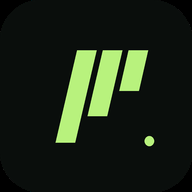
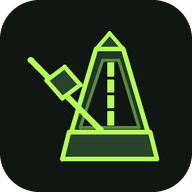
u

diff --git a/src/App.tsx b/src/App.tsx
@@ -2,6 +2,7 @@ import { useCallback, useEffect, useRef, useState } from 'react'
 import { Activity, BarChart3, Clock3, Download, History, Menu, Settings2, Timer, Upload, Volume2, VolumeX, X } from 'lucide-react'
 import { ActivityView } from './components/ActivityView'
 import { HistoryView } from './components/HistoryView'
+import { MetronomeMark } from './components/MetronomeMark'
 import { StatisticsView } from './components/StatisticsView'
 import { TimerView } from './components/TimerView'
 import { cleanActivity, defaultSettings, normalizeActivity, type LiveSession, type Mode, type Session, type Settings } from './lib/model'
@@ -11,11 +12,11 @@ import { playSound } from './lib/sound'
 import './styles.css'
 
 type Screen = 'timer' | 'activity' | 'statistics' | 'history'
-const nav: { id: Screen; label: string; icon: typeof Timer; index: string }[] = [
-  { id: 'timer', label: 'Timer', icon: Timer, index: '01' },
-  { id: 'activity', label: 'Activity', icon: Activity, index: '02' },
-  { id: 'statistics', label: 'Statistics', icon: BarChart3, index: '03' },
-  { id: 'history', label: 'History', icon: History, index: '04' },
+const nav: { id: Screen; label: string; icon: typeof Timer }[] = [
+  { id: 'timer', label: 'Timer', icon: Timer },
+  { id: 'activity', label: 'Activity', icon: Activity },
+  { id: 'statistics', label: 'Statistics', icon: BarChart3 },
+  { id: 'history', label: 'History', icon: History },
 ]
 
 export default function App() {
@@ -125,11 +126,6 @@ export default function App() {
       playSound('finish', settings)
     } catch { report('This session could not be saved. Please try again.') }
   }
-  const handleRate = (rating: number) => {
-    if (!completed) return
-    const record = { ...completed, rating }
-    void saveSession(record).then(() => { setCompleted(record); setSessions(previous => previous.map(item => item.id === record.id ? record : item)) }).catch(() => report('Rating could not be saved.'))
-  }
   const rename = async (oldName: string, newName: string) => {
     const clean = cleanActivity(newName)
     if (!clean) return
@@ -167,14 +163,13 @@ export default function App() {
 
   return <div className="app-shell">
     <aside className={`sidebar ${menuOpen ? 'mobile-open' : ''}`}>
-      <div className="brand"><div className="brand-symbol" aria-hidden="true"><i/><i/><i/></div><strong>presto</strong></div>
-      <div className="sidebar-section-label">NAVIGATION</div>
-      <nav aria-label="Main navigation">{nav.map(item => { const Icon = item.icon; return <button key={item.id} className={`nav-link ${screen === item.id ? 'active' : ''}`} onClick={() => chooseScreen(item.id)}><Icon size={18}/><span>{item.label}</span><small>{item.index}</small></button> })}</nav>
-      <div className="sidebar-bottom"><div className="sidebar-pulse"><span className="pulse-dot"/>{live ? `${live.phase === 'paused' ? 'PAUSED' : live.phase === 'break' ? 'ON BREAK' : 'FOCUSING'} · ${live.activity}` : 'READY'}</div><button className="settings-link" onClick={() => { setSettingsOpen(true); setMenuOpen(false) }}><Settings2 size={18}/> Settings</button></div>
+      <div className="brand"><MetronomeMark/><strong>presto</strong></div>
+      <nav aria-label="Main navigation">{nav.map(item => { const Icon = item.icon; return <button key={item.id} className={`nav-link ${screen === item.id ? 'active' : ''}`} onClick={() => chooseScreen(item.id)}><Icon size={18}/><span>{item.label}</span></button> })}</nav>
+      <div className="sidebar-bottom"><button className="settings-link" onClick={() => { setSettingsOpen(true); setMenuOpen(false) }}><Settings2 size={18}/> Settings</button></div>
     </aside>
     {menuOpen && <button className="mobile-scrim" aria-label="Close navigation" onClick={() => setMenuOpen(false)}/>}
-    <div className="workspace"><header className="topbar"><button className="mobile-menu icon-button" aria-label="Open navigation" onClick={() => setMenuOpen(true)}><Menu size={22}/></button><div className="breadcrumb"><span>PRESTO</span><span className="breadcrumb-slash">/</span><strong>{screen.toUpperCase()}</strong></div><div className="topbar-right"><span className="topbar-clock"><Clock3 size={14}/> {new Date(now).toLocaleTimeString(undefined, { hour: '2-digit', minute: '2-digit' })}</span><button className="topbar-settings icon-button" aria-label="Open settings" onClick={() => setSettingsOpen(true)}><Settings2 size={18}/></button></div></header>
-      <main>{screen === 'timer' && <TimerView draft={draft} setDraft={setDraft} mode={mode} setMode={setMode} settings={settings} updateSettings={updateSettings} live={live} completed={completed} now={now} onStart={start} onPause={() => live && commitLive(pause(live))} onResume={() => live && commitLive(resume(live))} onBreak={long => live && commitLive(beginBreak(live, Date.now(), long))} onFocus={() => live && commitLive(beginFocus(live))} onContinue={() => live && commitLive(continueFocus(live))} onFinish={() => void handleFinish()} onNew={() => { setDraft(completed?.activity ?? ''); setCompleted(null) }} onHome={() => { setCompleted(null); setDraft('') }} onRate={handleRate} onDismissReminder={() => live && commitLive({ ...live, reminderDismissedAt: Date.now() })}/>}
+    <div className="workspace"><header className="topbar"><button className="mobile-menu icon-button" aria-label="Open navigation" onClick={() => setMenuOpen(true)}><Menu size={22}/></button><div className="topbar-right"><span className="topbar-clock"><Clock3 size={14}/> {new Date(now).toLocaleTimeString(undefined, { hour: '2-digit', minute: '2-digit' })}</span><button className="topbar-settings icon-button" aria-label="Open settings" onClick={() => setSettingsOpen(true)}><Settings2 size={18}/></button></div></header>
+      <main>{screen === 'timer' && <TimerView draft={draft} setDraft={setDraft} mode={mode} setMode={setMode} settings={settings} updateSettings={updateSettings} live={live} completed={completed} now={now} onStart={start} onPause={() => live && commitLive(pause(live))} onResume={() => live && commitLive(resume(live))} onBreak={long => live && commitLive(beginBreak(live, Date.now(), long))} onFocus={() => live && commitLive(beginFocus(live))} onContinue={() => live && commitLive(continueFocus(live))} onFinish={() => void handleFinish()} onNew={() => { setDraft(completed?.activity ?? ''); setCompleted(null) }} onHome={() => { setCompleted(null); setDraft('') }} onDismissReminder={() => live && commitLive({ ...live, reminderDismissedAt: Date.now() })}/>}
         {screen === 'activity' && <ActivityView sessions={sessions} onRename={rename}/>}
         {screen === 'statistics' && <StatisticsView sessions={sessions}/>}
         {screen === 'history' && <HistoryView sessions={sessions} onDelete={remove}/>}</main>

diff --git a/src/components/HistoryView.tsx b/src/components/HistoryView.tsx
@@ -8,14 +8,14 @@ export function HistoryView({ sessions, onDelete }: Props) {
   const [open, setOpen] = useState<string | null>(null)
   const [confirming, setConfirming] = useState<string | null>(null)
   return <div className="screen-content">
-    <div className="page-heading"><div><span className="eyebrow">HISTORY</span><h1>History</h1></div><span className="heading-marker">{sessions.length} SESSIONS</span></div>
+    <div className="page-heading"><span className="eyebrow">HISTORY</span></div>
     <div className="panel history-panel"><div className="history-head"><span>ACTIVITY / DATE</span><span>FOCUS</span><span>MODE</span><span></span></div>
       {sessions.length ? sessions.map(item => <div className="history-entry" key={item.id}>
         <button className="history-row" aria-expanded={open === item.id} onClick={() => setOpen(open === item.id ? null : item.id)}>
           <span className="history-name"><strong>{item.activity}</strong><small>{new Date(item.startedAt).toLocaleDateString(undefined, { dateStyle: 'medium' })} · {new Date(item.startedAt).toLocaleTimeString(undefined, { hour: '2-digit', minute: '2-digit' })}</small></span>
           <strong className="history-focus">{formatCompact(item.focusMs)}</strong><span className="history-mode">{modeNames[item.mode]}</span><ChevronDown className={open === item.id ? 'rotated' : ''} size={17}/>
         </button>
-        {open === item.id && <div className="history-detail"><div className="history-detail-grid"><div><span>STARTED</span><strong>{new Date(item.startedAt).toLocaleString(undefined, { dateStyle: 'medium', timeStyle: 'short' })}</strong></div><div><span>ENDED</span><strong>{new Date(item.endedAt).toLocaleString(undefined, { dateStyle: 'medium', timeStyle: 'short' })}</strong></div><div><span>FOCUSED</span><strong>{formatCompact(item.focusMs)}</strong></div><div><span>PAUSED</span><strong>{formatCompact(item.pausedMs)} · {item.pauseCount} {item.pauseCount === 1 ? 'pause' : 'pauses'}</strong></div><div><span>BREAK</span><strong>{formatCompact(item.breakMs)}</strong></div>{Boolean(item.awayMs) && <div><span>AWAY / UNTRACKED</span><strong>{formatCompact(item.awayMs ?? 0)}</strong></div>}<div><span>TOTAL ELAPSED</span><strong>{formatCompact(item.endedAt - item.startedAt)}</strong></div><div><span>STATUS</span><strong>{item.status}</strong></div><div><span>FOCUS RATING</span><strong>{item.rating ? `${item.rating} / 5` : 'Not rated'}</strong></div></div><div className="history-actions">{confirming === item.id ? <><span>Delete this session?</span><button className="text-button danger" onClick={async () => { await onDelete(item.id); setConfirming(null); setOpen(null) }}>Delete</button><button className="text-button" onClick={() => setConfirming(null)}>Cancel</button></> : <button className="text-button danger" onClick={() => setConfirming(item.id)}><Trash2 size={15}/> Delete session</button>}</div></div>}
+        {open === item.id && <div className="history-detail"><div className="history-detail-grid"><div><span>STARTED</span><strong>{new Date(item.startedAt).toLocaleString(undefined, { dateStyle: 'medium', timeStyle: 'short' })}</strong></div><div><span>ENDED</span><strong>{new Date(item.endedAt).toLocaleString(undefined, { dateStyle: 'medium', timeStyle: 'short' })}</strong></div><div><span>FOCUSED</span><strong>{formatCompact(item.focusMs)}</strong></div><div><span>PAUSED</span><strong>{formatCompact(item.pausedMs)} · {item.pauseCount} {item.pauseCount === 1 ? 'pause' : 'pauses'}</strong></div><div><span>BREAK</span><strong>{formatCompact(item.breakMs)}</strong></div>{Boolean(item.awayMs) && <div><span>AWAY / UNTRACKED</span><strong>{formatCompact(item.awayMs ?? 0)}</strong></div>}<div><span>TOTAL ELAPSED</span><strong>{formatCompact(item.endedAt - item.startedAt)}</strong></div><div><span>STATUS</span><strong>{item.status}</strong></div></div><div className="history-actions">{confirming === item.id ? <><span>Delete this session?</span><button className="text-button danger" onClick={async () => { await onDelete(item.id); setConfirming(null); setOpen(null) }}>Delete</button><button className="text-button" onClick={() => setConfirming(null)}>Cancel</button></> : <button className="text-button danger" onClick={() => setConfirming(item.id)}><Trash2 size={15}/> Delete session</button>}</div></div>}
       </div>) : <div className="history-empty"><h2>No sessions yet</h2><p>Start a timer to record a session.</p></div>}
     </div>
   </div>

diff --git a/src/components/StatisticsView.tsx b/src/components/StatisticsView.tsx
@@ -27,7 +27,7 @@ export function StatisticsView({ sessions }: Props) {
     : `${new Date(start).toLocaleDateString(undefined, { month: 'short', day: 'numeric' })} — ${new Date(end - 1).toLocaleDateString(undefined, { month: 'short', day: 'numeric', year: 'numeric' })}`
 
   return <div className="screen-content">
-    <div className="page-heading"><div><span className="eyebrow">STATISTICS</span><h1>Statistics</h1></div></div>
+    <div className="page-heading"><span className="eyebrow">STATISTICS</span></div>
     <div className="stats-toolbar"><div className="segmented" aria-label="Statistics period">{(['day','week','month'] as Period[]).map(option => <button key={option} className={period === option ? 'selected' : ''} onClick={() => { setPeriod(option); setAnchor(new Date()) }}>{option}</button>)}</div><div className="period-nav"><button className="icon-button" aria-label="Previous period" onClick={() => setAnchor(shift(anchor, period, -1))}><ChevronLeft size={18}/></button><span>{label}</span><button className="icon-button" aria-label="Next period" disabled={periodBounds(period, shift(anchor, period, 1))[0] > Date.now()} onClick={() => setAnchor(shift(anchor, period, 1))}><ChevronRight size={18}/></button></div></div>
     <div className="stat-cards">
       <Metric label="FOCUSED" value={formatCompact(summary.focusMs)} prominent />
@@ -39,7 +39,7 @@ export function StatisticsView({ sessions }: Props) {
       <div className="panel trend-panel"><div className="section-title"><div><span className="eyebrow">FOCUS OVER TIME</span><h2>{period === 'day' ? 'By hour' : period === 'week' ? 'This week' : 'By day'}</h2></div></div><div className={`trend-chart ${period === 'month' ? 'month-chart' : ''}`} role="img" aria-label="Focus time by period"><div className="trend-bars">{trend.map((item, index) => <div className="trend-column" key={`${item.label}-${index}`}><div className="trend-track"><div className="trend-bar" title={`${item.label}: ${formatCompact(item.focusMs)}`} style={{ height: `${item.focusMs ? Math.max(5, item.focusMs / max * 100) : 2}%` }}/></div><span>{period === 'month' && index % 5 !== 0 ? '' : item.label}</span></div>)}</div></div></div>
       <div className="panel distribution-panel"><span className="eyebrow">DISTRIBUTION</span><h2>By activity</h2>{activities.length ? <><div className="donut-area"><div className="donut" style={{ background: `conic-gradient(${activities.map((_, index) => `${colors[index % colors.length]} ${(activities.slice(0,index).reduce((sum, part) => sum + part.focusMs, 0) / summary.focusMs * 100).toFixed(2)}% ${((activities.slice(0,index + 1).reduce((sum, part) => sum + part.focusMs, 0)) / summary.focusMs * 100).toFixed(2)}%`).join(', ')})` }}><div><strong>{activities.length}</strong><span>ACTIVITIES</span></div></div></div><div className="distribution-list">{activities.map((item, index) => <div key={item.name}><span><i style={{ background: colors[index % colors.length] }}/>{item.name}</span><strong>{Math.round(item.focusMs / summary.focusMs * 100)}%</strong></div>)}</div></> : <p className="empty-note">No activity data for this period.</p>}</div>
     </div>
-    <div className="panel context-panel"><span className="eyebrow">SUMMARY</span><div className="context-metrics"><div><strong>{formatCompact(summary.averageFocusMs)}</strong><span>Average session focus</span></div><div><strong>{Math.round(summary.activeShare * 100)}%</strong><span>Active share of focus + manual pause</span></div><div><strong>{summary.averageRating ? summary.averageRating.toFixed(1) + ' / 5' : '—'}</strong><span>Average optional rating {summary.ratedCount ? `(${summary.ratedCount})` : ''}</span></div></div><p>Percentages use recorded sessions only.</p></div>
+    <div className="panel context-panel"><span className="eyebrow">SUMMARY</span><div className="context-metrics"><div><strong>{formatCompact(summary.averageFocusMs)}</strong><span>Average session focus</span></div><div><strong>{Math.round(summary.activeShare * 100)}%</strong><span>Active share of focus + manual pause</span></div></div><p>Percentages use recorded sessions only.</p></div>
   </div>
 }
 

diff --git a/src/styles.css b/src/styles.css
@@ -152,3 +152,70 @@ h1,h2,h3{font-weight:500}
   .mode-card{min-height:54px}
   .timer-stage-footer{font-size:7px}
 }
+
+/* Rounded LCD forms and a restrained neon accent. */
+:root{
+  --lime:#b5ff59;
+  --mint:#90dbac;
+  --line:#303b33;
+  --line-soft:#27332a;
+}
+button:focus-visible,input:focus-visible{outline-color:var(--lime)}
+::selection{background:var(--lime);color:#0c100f}
+.brand{padding-bottom:65px}
+.metronome-mark{width:32px;height:32px;flex:none;color:var(--lime);filter:drop-shadow(0 0 5px #b5ff5933)}
+.brand strong{font-size:27px;font-weight:500;letter-spacing:-.08em;color:#edf0e9}
+.sidebar nav{gap:6px}
+.sidebar-bottom{border-top:1px solid var(--line);padding-top:15px}
+.topbar{justify-content:flex-end}
+.page-heading{margin-bottom:24px;min-height:21px;align-items:center}
+.page-heading .eyebrow,.page-heading>.eyebrow{font-size:12px;letter-spacing:.15em;font-weight:400;color:#c7d8c4;margin:0}
+.panel,.timer-aside,.metric-card,.history-panel{border-radius:14px}
+.timer-main{border-radius:15px}
+.timer-stage,.timer-stage.is-break{border-radius:18px;border-color:#3b5140;background:#111b13}
+.timer-stage.is-live{border-color:#6aa33f;box-shadow:inset 0 0 36px #b5ff5908}
+.timer-numbers,.timer-stage.is-break .timer-numbers{color:#c4ff85;text-shadow:0 0 30px #a9ff5044,0 0 70px #a9ff501a}
+.phase-indicator{color:#bddeaa}
+.phase-indicator i{background:var(--lime);box-shadow:0 0 12px #b5ff5999}
+.progress-track{background:#334837}
+.progress-track>div{background:var(--lime);box-shadow:0 0 13px #b5ff5988}
+.mode-card{border-radius:10px}
+.mode-card.selected{border-color:#85c846;background:#243724;color:#f2ffe9;box-shadow:inset 0 0 0 1px #b5ff5924}
+.mode-card.selected small{color:#b9dfad}
+.nav-link,.settings-link,.icon-button{border-radius:11px}
+.nav-link.active{border-color:#426342;background:#1e3122;color:#cfff9c}
+.nav-link:hover,.settings-link:hover{background:#1c2b20}
+.button{border-radius:11px}
+.button.primary{background:var(--lime);border-color:var(--lime);color:#18240e;box-shadow:0 0 24px #b5ff5924}
+.button.primary:hover:not(:disabled){background:#cbff81;box-shadow:0 0 28px #b5ff5940}
+.button.primary:disabled{box-shadow:none}
+.button.subtle{background:#1c2820}
+.event-card,.reminder-card,.segmented,.recovery-modal,.toast{border-radius:13px}
+.segmented button,.rating-buttons button{border-radius:9px}
+.segmented button.selected{background:#2d4827;color:#cfff9c}
+.metric-card.prominent{background:#1c2b1f;border-color:#547549}
+.metric-card.prominent .eyebrow{color:#b0dba0}
+.metric-card.prominent strong{color:#c8ff91;text-shadow:0 0 22px #a9ff5028}
+.context-metrics{grid-template-columns:repeat(2,minmax(0,1fr))}
+.trend-bar{background:linear-gradient(0deg,#74b745,#b5ff59)}
+.heat-cell{border-radius:4px}
+.heat-cell.level-4{background:var(--lime)}
+.activity-row:hover,.activity-row.active,.history-row:hover{background:#1b2c1f;color:#d8ffc2}
+.history-focus{color:#c2ff88}
+.history-detail{background:#1b2a1e;border-radius:0 0 11px 11px}
+.history-empty{border-radius:0 0 13px 13px}
+.completion-focus strong{color:#c4ff85;text-shadow:0 0 30px #a9ff5033}
+.completion-actions{margin-top:33px}
+.settings-drawer{border-radius:16px 0 0 16px}
+.custom-durations input,.number-setting input,.rename-form input{border-radius:9px}
+.toggle-row input{background:#3b493d}
+.toggle-row input:checked{background:#5a8d38}
+.toggle-row input:checked:after{background:var(--lime)}
+@media(max-width:740px){
+  .mobile-menu{margin-right:auto}
+  .screen-content{padding-top:31px}
+  .page-heading{margin-bottom:20px}
+  .timer-stage,.timer-stage.is-break{border-radius:15px}
+  .settings-drawer{border-radius:0}
+}
+@media(max-width:500px){.context-metrics{grid-template-columns:1fr}}

diff --git a/src/components/TimerView.tsx b/src/components/TimerView.tsx
@@ -9,7 +9,7 @@ interface Props {
   live: LiveSession | null; completed: Session | null; now: number
   onStart: () => void; onPause: () => void; onResume: () => void
   onBreak: (long: boolean) => void; onFocus: () => void; onContinue: () => void
-  onFinish: () => void; onNew: () => void; onHome: () => void; onRate: (rating: number) => void
+  onFinish: () => void; onNew: () => void; onHome: () => void
   onDismissReminder: () => void
 }
 
@@ -40,12 +40,11 @@ export function TimerView(props: Props) {
     <h1>Session complete</h1><p className="completion-subtitle"><strong>{completed.activity}</strong> · Saved to history</p>
     <div className="completion-focus"><span>FOCUSED TIME</span><strong>{formatDuration(completed.focusMs, true)}</strong></div>
     <div className={`completion-details ${completed.awayMs ? 'with-away' : ''}`}><div><span>MANUALLY PAUSED</span><strong>{formatCompact(completed.pausedMs)}</strong></div><div><span>SCHEDULED BREAK</span><strong>{formatCompact(completed.breakMs)}</strong></div>{Boolean(completed.awayMs) && <div><span>AWAY / UNTRACKED</span><strong>{formatCompact(completed.awayMs ?? 0)}</strong></div>}<div><span>TOTAL ELAPSED</span><strong>{formatCompact(completed.endedAt - completed.startedAt)}</strong></div></div>
-    <div className="rating-area"><span className="eyebrow">FOCUS RATING · OPTIONAL</span><div className="rating-buttons" role="group" aria-label="Optional focus rating">{[1,2,3,4,5].map(rating => <button key={rating} className={completed.rating === rating ? 'rated' : ''} aria-pressed={completed.rating === rating} aria-label={`Rate focus ${rating} out of 5`} onClick={() => props.onRate(rating)}>{rating}</button>)}</div></div>
     <div className="completion-actions"><button className="button primary completion-next" onClick={props.onNew}>Start another session <ArrowRight size={18}/></button><button className="button subtle" onClick={props.onHome}>Return to timer</button></div>
   </div>
 
   return <div className="screen-content timer-screen">
-    <div className="page-heading timer-heading"><div><span className="eyebrow">FOCUS TIMER</span><h1>presto</h1></div></div>
+    <div className="page-heading timer-heading"><span className="eyebrow">FOCUS TIMER</span></div>
     <div className="timer-layout">
       <div className="timer-main panel">
         <div className="timer-topline"><span className="eyebrow">ACTIVITY</span></div>

diff --git a/src/components/MetronomeMark.tsx b/src/components/MetronomeMark.tsx
@@ -1,0 +1,12 @@
+export function MetronomeMark() {
+  return <svg className="metronome-mark" viewBox="0 0 64 64" fill="none" stroke="currentColor" strokeLinecap="round" strokeLinejoin="round" aria-hidden="true">
+    <path d="m38 4-6 7h12l-6-7Z" fill="#28432c" strokeWidth="1.8" />
+    <path d="M32 11h12l11 37H21l11-37Z" fill="#213824" strokeWidth="2" />
+    <path d="M35 16h7l9 30H25l10-30Z" fill="#101713" stroke="#5a8b3e" strokeWidth="1.3" />
+    <path d="M37 17h3v28h-3z" fill="currentColor" stroke="none" />
+    <path d="M37 24h3m-3 7h3m-3 7h3" stroke="#101713" strokeWidth="1.2" />
+    <path d="M20 48h36l3 12H17l3-12Z" fill="#28432c" strokeWidth="2" />
+    <path d="M34 47 3 16" strokeWidth="2.8" />
+    <path d="m10 25 8-6 7 8-8 6-7-8Z" fill="#28432c" strokeWidth="2" />
+  </svg>
+}

diff --git a/src/components/ActivityView.tsx b/src/components/ActivityView.tsx
@@ -18,7 +18,7 @@ export function ActivityView({ sessions, onRename }: Props) {
   const bestDay = Math.max(0, ...daily.values())
 
   return <div className="screen-content">
-    <div className="page-heading"><div><span className="eyebrow">ACTIVITY</span><h1>Activity</h1></div></div>
+    <div className="page-heading"><span className="eyebrow">ACTIVITY</span></div>
     <div className="panel activity-heatmap"><Heatmap sessions={sessions} activity={chosen}/></div>
     <div className="activity-layout">
       <div className="panel activity-list-panel">
